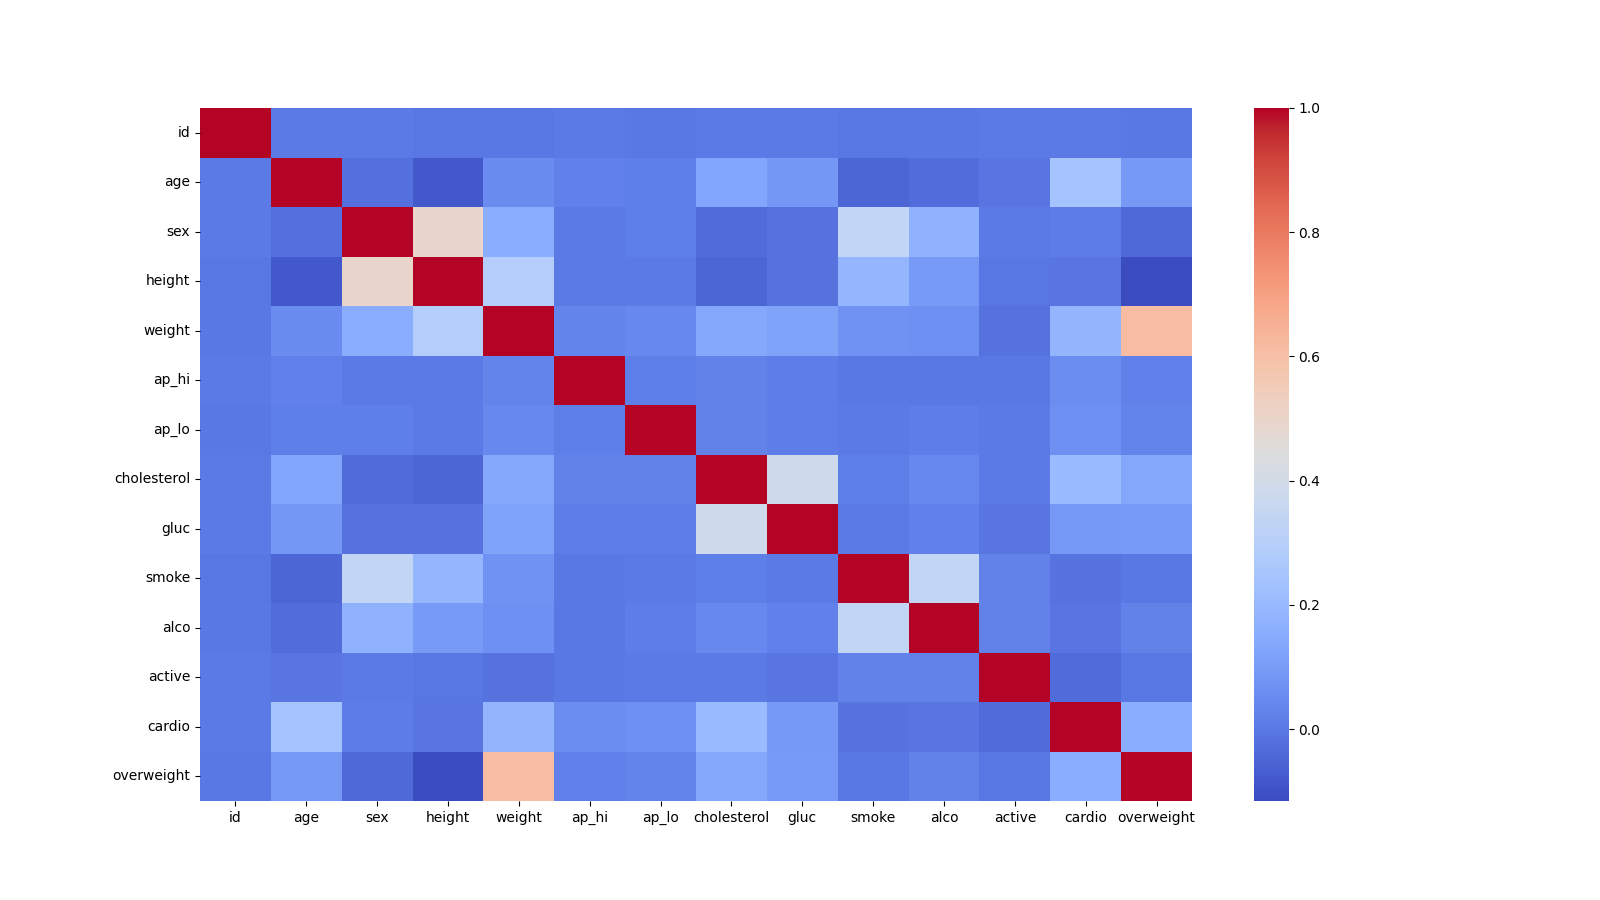
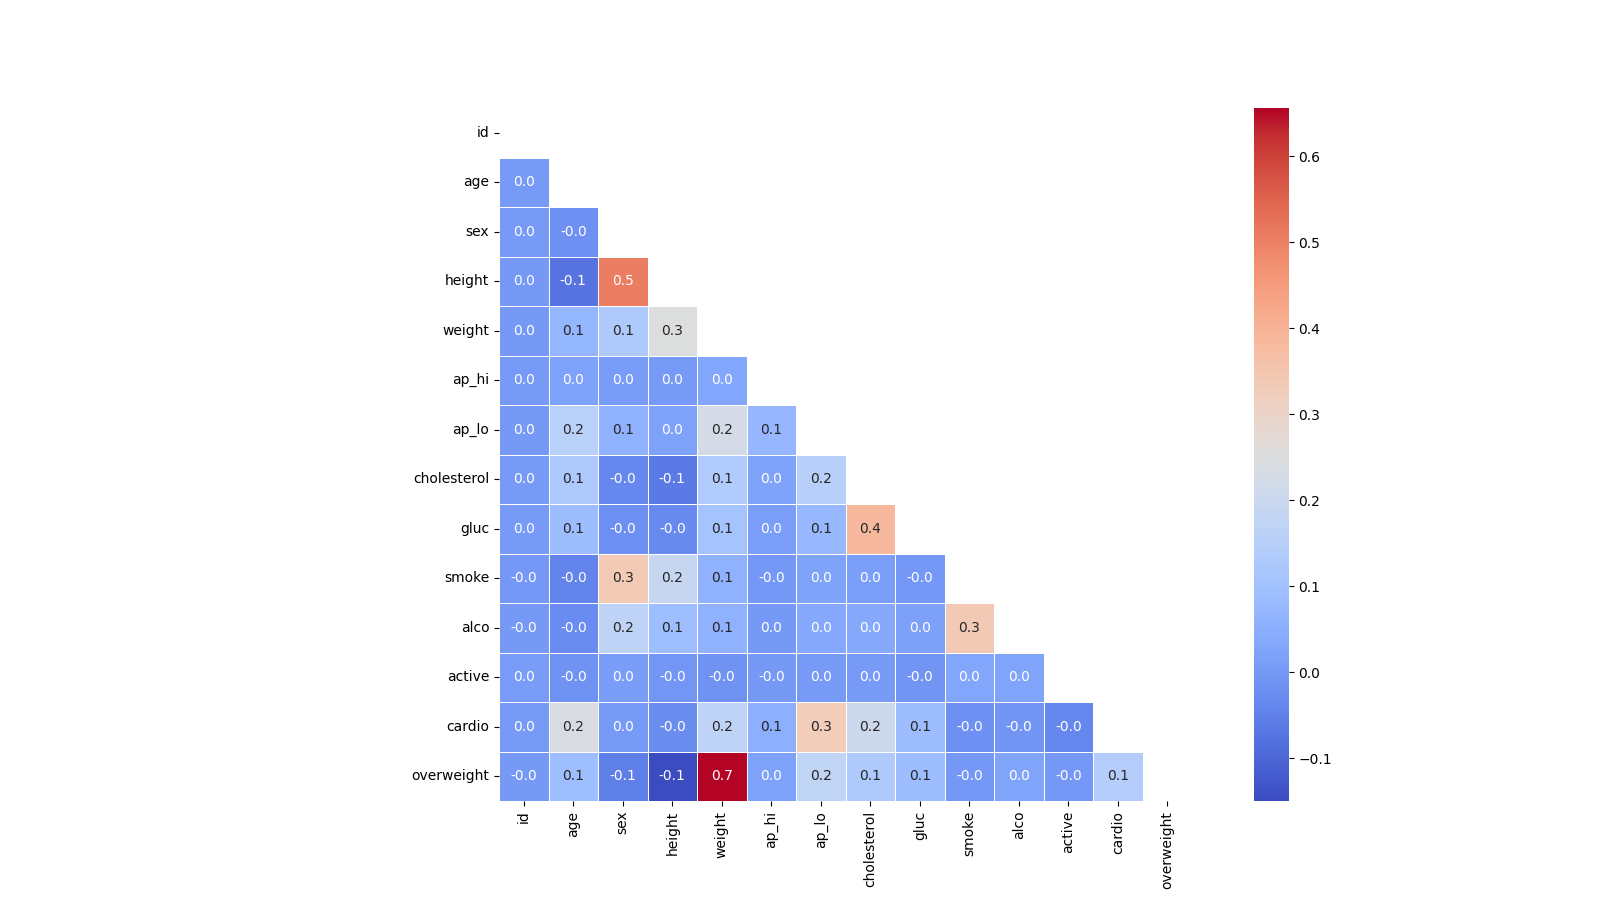
all tests passed

diff --git a/medical_data_visualizer.py b/medical_data_visualizer.py
@@ -30,7 +30,7 @@ def draw_cat_plot():
     # 7 Convert the data into long format and create a chart that shows the value counts of the categorical features using the following method provided by the seaborn library import : sns.catplot()
 
     chart = sns.catplot(data=df_cat, x="variable",
-                        y="total", hue="value", kind="bar",)
+                        y="total", hue="value", kind="bar", col="cardio")
     # 8
     fig = chart.figure
 
@@ -41,29 +41,29 @@ def draw_cat_plot():
 
 # 10 Draw the Heat Map in the draw_heat_map function
 def draw_heat_map():
+
     # 11 Clean the data in the df_heat variable by filtering out the following patient segments that represent incorrect data:
     # height is less than the 2.5th percentile (Keep the correct data with (df['height'] >= df['height'].quantile(0.025)))
     # height is more than the 97.5th percentile
     # weight is less than the 2.5th percentile
     # weight is more than the 97.5th percentile
-    df['height'] >= df['height'].quantile(0.025)
-    df['height'] <= df['height'].quantile(0.975)
-    df['weight'] >= df['weight'].quantile(0.025)
-    df['weight'] <= df['weight'].quantile(0.975)
-    df_heat = df
-
+    df_heat = df[((df['ap_lo'] <= df['ap_hi']) & (df['height'] >= df['height'].quantile(0.025)) &
+                  (df['height'] <= df['height'].quantile(0.975)) &
+                  (df['weight'] >= df['weight'].quantile(0.025)) &
+                  (df['weight'] <= df['weight'].quantile(0.975)))].copy()
     # 12 Calculate the correlation matrix and store it in the corr variable
     corr = df_heat.corr()
 
     # 13 Generate a mask for the upper triangle and store it in the mask variable
-    mask = np.triu_indices_from(np.ones_like(corr))
+    mask = np.triu(np.ones_like(corr, dtype=bool))
 
     # 14 Set up the matplotlib figure
     fig, ax = plt.subplots(figsize=(16, 9))
 
     # 15 Plot the correlation matrix using the method provided by the seaborn library import: sns.heatmap()
 
-    fig = sns.heatmap(corr, cmap='coolwarm').figure
+    sns.heatmap(corr, cmap='coolwarm', square=True,   mask=mask,
+                linewidths=0.5, annot=True, fmt="0.1f")
 
     # 16 Do not modify the next two lines
     fig.savefig('heatmap.png')

diff --git a/main.py b/main.py
@@ -8,3 +8,6 @@ medical_data_visualizer.draw_heat_map()
 
 # Run unit tests automatically
 main(module='test_module', exit=False)
+
+
+# ? Lists differ: [] != ['0.0', '0.0', '-0.0', '0.0', '-0.1', '0.5[616 chars]0.1']
